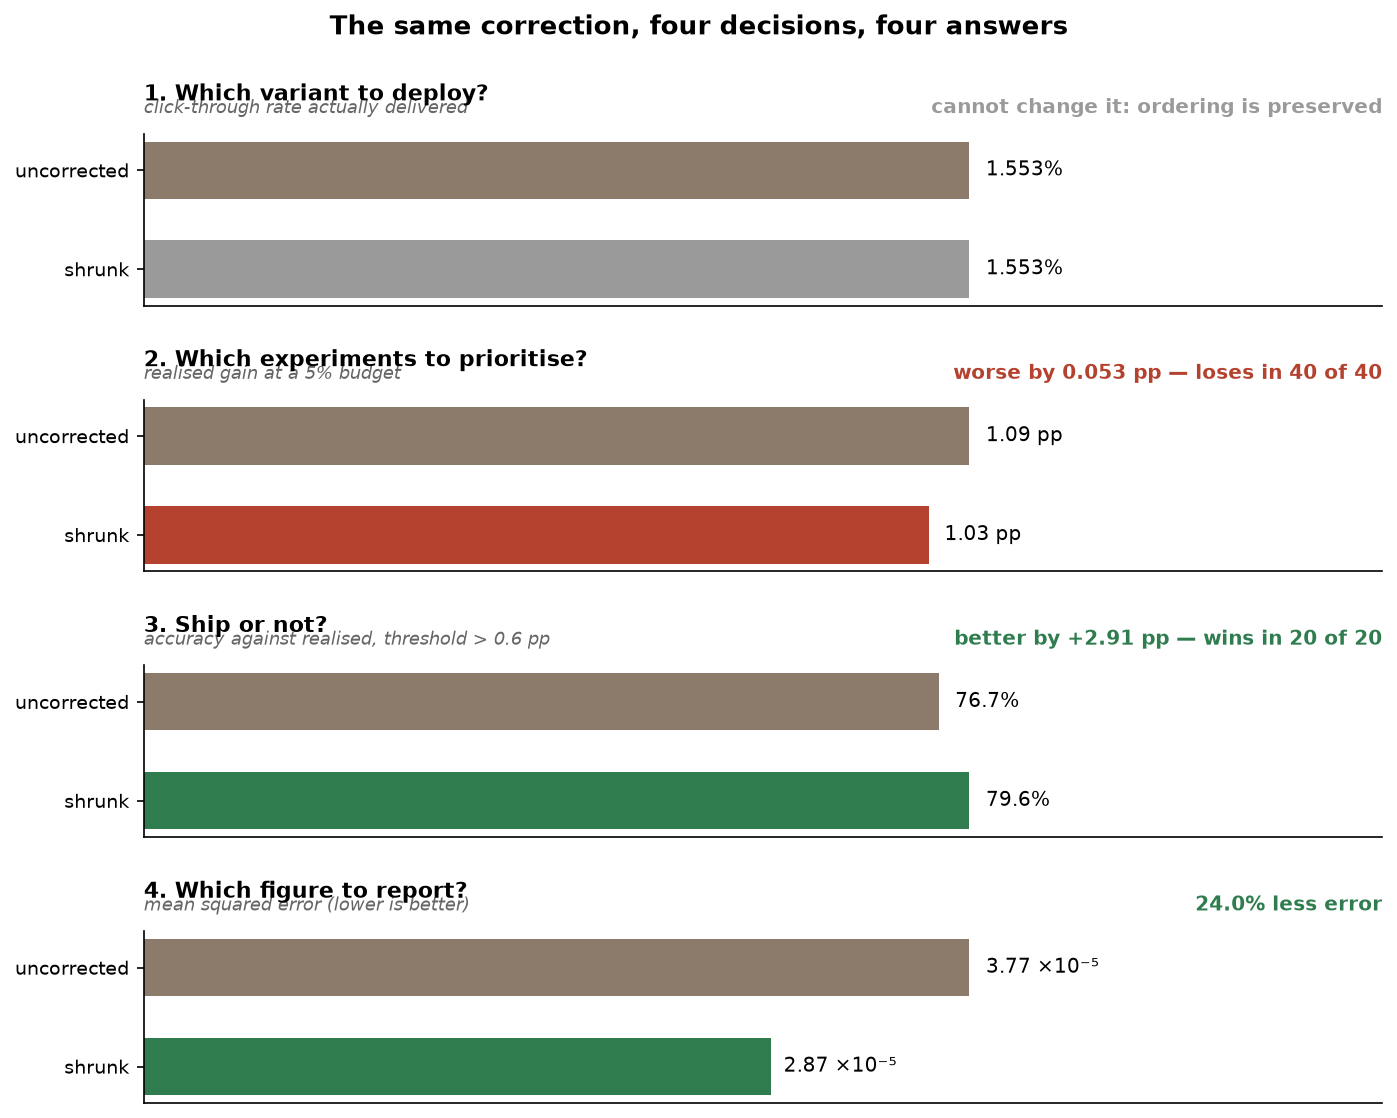
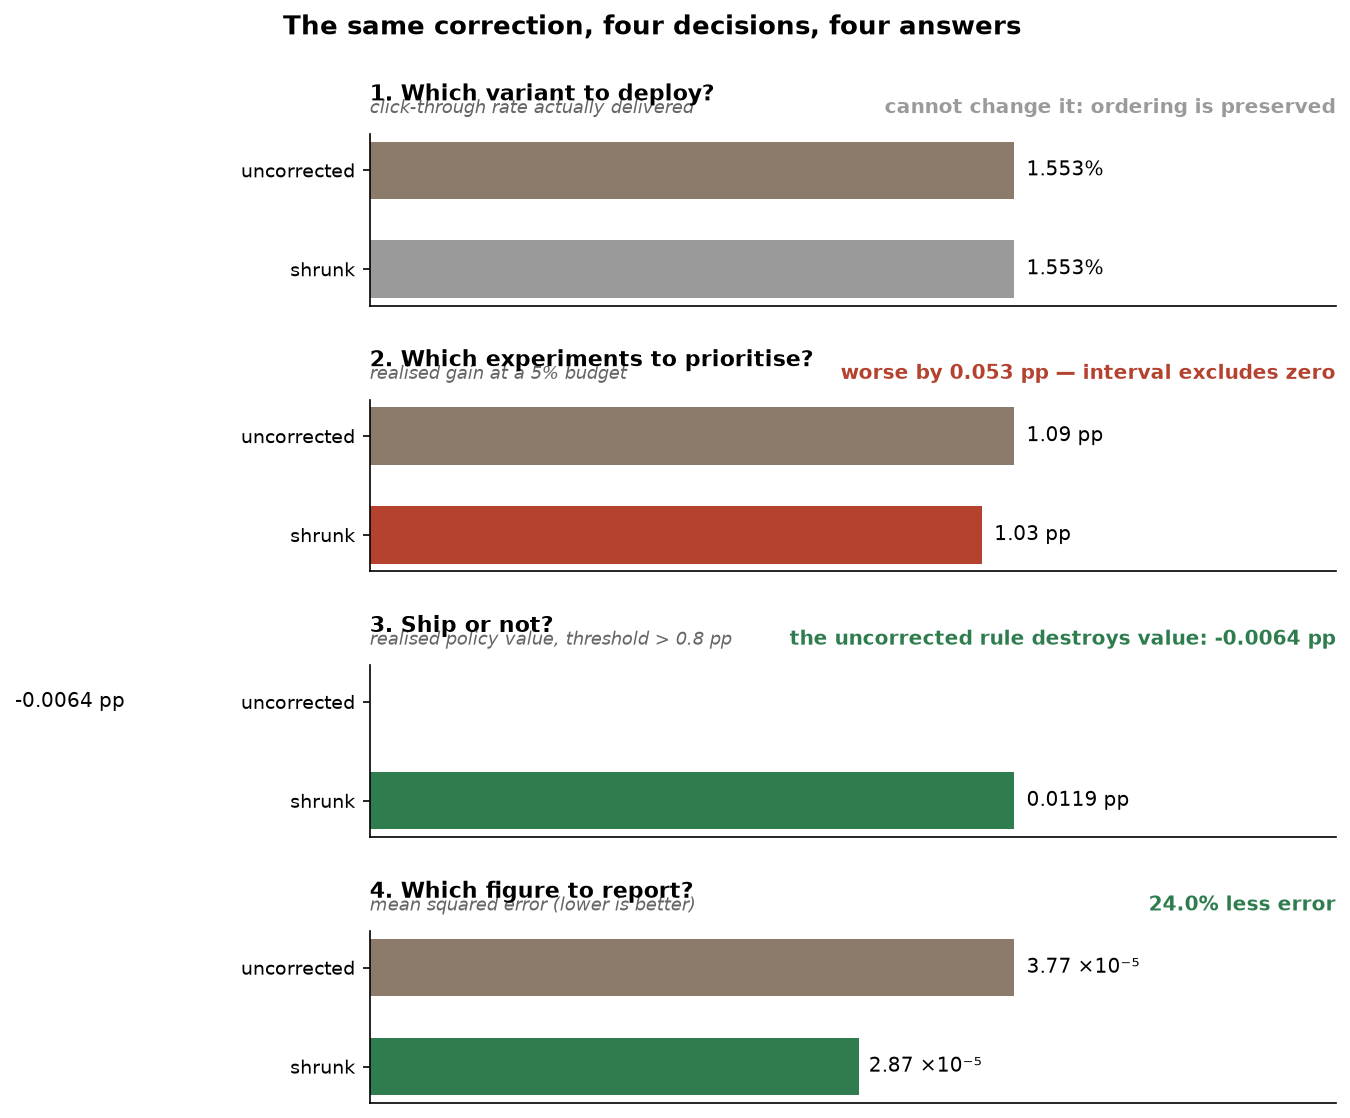
Publish the ship decision by realised value, and verify 39 claims
The README now reports decision 3 as the value the policy delivers
rather than how often it agrees with a second noisy measurement. At a
0.8 pp bar the uncorrected rule is NEGATIVE (-0.0064 pp) while the
shrunk rule is +0.0119 pp: it is not merely less accurate, it is worse
than shipping nothing. It ships 14.2% when 14.2% genuinely clear the
bar -- the right rate and the wrong individuals.

Inference, with its replicate count stated per artefact:
- Regime, B=2000. Stability against B=1000 holds: the point estimate
  does not move and the endpoints move 0.0014 pp against an interval
  0.064 pp wide.
- Ship, B=1000. The B=2000 run was stopped by the host for system
  memory pressure, not by any failure of its own, and was not
  restarted.

Also reported rather than smoothed over: on the 1,277 experiments the
regime filter retains, Monte Carlo variability from the thinning split
(0.125 pp) exceeds the bootstrap standard error (0.068 pp). Separating
the two is what makes that visible.

verify_reported_results.py goes from 27 to 39 claims, covering the
interval endpoints and ship rates. Bootstrap tolerances are wider than
the deterministic ones on purpose: they must survive a rerun on a new
seed, not pin one run's digits, and the measured B=1000 to B=2000
movement sets that scale. Checked against a deliberately flipped sign:
it exits 1 and names the claim.

Claude-Session: https://claude.ai/code/session_014p8syLj6p6szsZxoFvr4Wu

diff --git a/scripts/verify_reported_results.py b/scripts/verify_reported_results.py
@@ -36,11 +36,11 @@ class Claim:
     """One number the README states, and where it comes from."""
 
     label: str
-    source: str                 # file in reports/results/
-    path: tuple[str, ...]       # keys to walk
+    source: str                      # file in reports/results/
+    path: tuple[str | int, ...]      # keys to walk; ints index into lists
     expected: float
     tolerance: float
-    scale: float = 1.0          # multiply the stored value before comparing
+    scale: float = 1.0               # multiply the stored value before comparing
 
     def read(self) -> float:
         payload: Any = json.loads((RESULTS / self.source).read_text(encoding="utf-8"))
@@ -75,6 +75,21 @@ CLAIMS: list[Claim] = [
           ("confirmatory", "gain", "raw", "0.05"), 1.086, 0.015, scale=100),
     Claim("gain at 5%, shrunk (pp)", "07_result.json",
           ("confirmatory", "gain", "shrunk", "0.05"), 1.033, 0.015, scale=100),
+
+    # Decision 2, with the interval the README now quotes. The bootstrap is a
+    # Monte Carlo approximation, so these tolerances are wider than the
+    # deterministic claims above: they must survive a rerun on a new seed, not
+    # pin one run's digits. Endpoints moved by 0.0014 pp between B=1000 and
+    # B=2000, which is what sets the scale.
+    Claim("D2 difference, point (pp)", "08_regime.json",
+          ("confirmatory", "full_archive", "difference", "point_estimate"),
+          -0.0685, 0.004, scale=100),
+    Claim("D2 difference, lower endpoint (pp)", "08_regime.json",
+          ("confirmatory", "full_archive", "difference", "percentile_interval", 0),
+          -0.092, 0.010, scale=100),
+    Claim("D2 difference, upper endpoint (pp)", "08_regime.json",
+          ("confirmatory", "full_archive", "difference", "percentile_interval", 1),
+          -0.027, 0.010, scale=100),
 
     # Initial checks
     Claim("Cochran Q/dof, exploratory", "03_calibration.json",
@@ -129,6 +144,36 @@ CLAIMS: list[Claim] = [
           ("confirmatory", "mse_relative_change", "bhs"), -28.1, 0.6, scale=100),
     Claim("regime filter retains (%)", "08_regime.json",
           ("confirmatory", "filter", "fraction_of_arms_retained"), 6.9, 0.3, scale=100),
+
+    # Decision 3, by realised policy value. The sign of the uncorrected rule at
+    # the demanding threshold is the claim that matters, so its tolerance is
+    # tight enough that a change of sign fails here.
+    Claim("ship value at 0.8 pp, raw (pp)", "09_ship_decision.json",
+          ("thresholds", "0.008", "value_raw", "point_estimate"),
+          -0.00641, 0.0020, scale=100),
+    Claim("ship value at 0.8 pp, shrunk (pp)", "09_ship_decision.json",
+          ("thresholds", "0.008", "value_shrunk", "point_estimate"),
+          0.01187, 0.0020, scale=100),
+    Claim("ship difference at 0.8 pp (pp)", "09_ship_decision.json",
+          ("thresholds", "0.008", "difference_shrunk_minus_raw", "point_estimate"),
+          0.01828, 0.0025, scale=100),
+    Claim("ship difference at 0.8 pp, lower endpoint (pp)",
+          "09_ship_decision.json",
+          ("thresholds", "0.008", "difference_shrunk_minus_raw",
+           "percentile_interval", 0),
+          0.0148, 0.0040, scale=100),
+    Claim("ship difference at 0.6 pp (pp)", "09_ship_decision.json",
+          ("thresholds", "0.006", "difference_shrunk_minus_raw", "point_estimate"),
+          0.01475, 0.0025, scale=100),
+    Claim("ship difference at 0.4 pp (pp)", "09_ship_decision.json",
+          ("thresholds", "0.004", "difference_shrunk_minus_raw", "point_estimate"),
+          0.00548, 0.0020, scale=100),
+    Claim("ship rate at 0.8 pp, raw (%)", "09_ship_decision.json",
+          ("thresholds", "0.008", "ship_rate_raw"), 14.2, 0.8, scale=100),
+    Claim("ship rate at 0.8 pp, shrunk (%)", "09_ship_decision.json",
+          ("thresholds", "0.008", "ship_rate_shrunk"), 3.1, 0.8, scale=100),
+    Claim("should ship at 0.8 pp (%)", "09_ship_decision.json",
+          ("thresholds", "0.008", "should_ship"), 14.2, 0.8, scale=100),
 ]
 
 

diff --git a/scripts/11_figures.py b/scripts/11_figures.py
@@ -235,20 +235,25 @@ def fig_umbral() -> None:
     a1.errorbar(x, v_con, yerr=barras(v_con, ic_con), fmt="o-", color=GLOBAL,
                 lw=2, ms=6, capsize=3, label="shrunk", zorder=3)
 
-    # El cruce por cero es el hallazgo: senalar el umbral donde ocurre.
+    # El cruce por cero es el hallazgo: senalar el umbral donde ocurre. La
+    # etiqueta va a la IZQUIERDA del punto, porque debajo la recorta el eje.
     for xi, v in zip(x, v_cru):
         if v < 0:
             a1.annotate("destroys\nvalue", (xi, v),
                         textcoords="offset points",
-                        xytext=(0, -26), ha="center", fontsize=8.5,
-                        color=PERJUDICA, weight="bold")
+                        xytext=(-16, -2), ha="right", va="center",
+                        fontsize=8.5, color=PERJUDICA, weight="bold")
             break
 
     a1.set_xlabel("ship threshold (percentage points of improvement)")
     a1.set_ylabel("realised policy value (pp)")
-    a1.set_title("Above a demanding bar the uncorrected rule turns negative")
+    a1.set_title("The uncorrected rule turns negative", fontsize=10.5)
     a1.legend(frameon=False, loc="upper right")
-    a1.set_xlim(min(x) - 0.06, max(x) + 0.06)
+    a1.set_xlim(min(x) - 0.06, max(x) + 0.08)
+    # Holgura inferior para que la etiqueta y la barra de error quepan enteras.
+    bajo = min(ic[0] * 100 for ic in ic_cru)
+    alto = max(ic[1] * 100 for ic in ic_con)
+    a1.set_ylim(bajo - (alto - bajo) * 0.14, alto + (alto - bajo) * 0.10)
 
     ancho = 0.26
     xi = np.arange(len(us))
@@ -261,7 +266,7 @@ def fig_umbral() -> None:
     a2.set_xticks(xi, [f"> {float(k)*100:.1f}" for k in us])
     a2.set_xlabel("ship threshold (pp)")
     a2.set_ylabel("% of experiments shipped")
-    a2.set_title("The uncorrected rule gets the rate right and the individuals wrong")
+    a2.set_title("Right rate, wrong individuals", fontsize=10.5)
     a2.legend(frameon=False, fontsize=8.5)
 
     fig.suptitle("Ranking is invariant to shrinkage; threshold comparison is not",

diff --git a/README.md b/README.md
@@ -125,20 +125,30 @@ What an experimentation lead should take away: **the correction serves to stop o
 
 ![Where it fails](reports/figures/05_where_it_fails.png)
 
-## 3. Whether to ship: here shrinkage does win, and the margin grows
+## 3. Whether to ship: here shrinkage does win, and the uncorrected rule can destroy value
+
+*Stage 2 — devised after the confirmatory sample had been unblinded. It requires independent confirmation.*
 
 * **The reason is an asymmetry the A/B testing literature does not usually separate.** Ranking is invariant to a monotone transformation, so shrinkage cannot change the argmax. **Comparison against an absolute threshold is not invariant**: shrinkage changes the value, and therefore changes whether it crosses the line.
 
-* **The improvement grows with the stringency of the threshold**, winning across all 20 partitions from 0.4 points upwards:
+* **What is measured is the value the policy delivers, not how often it agrees with a second measurement.** For a threshold *u*, the policy ships arm *i* when its estimate clears the bar, and the value realised is what the independent evaluation partition says it delivered against that bar:
 
-| Threshold | Accuracy, uncorrected | Accuracy, shrunk | Improvement | Wins in |
+  *V*(π) = (1/N) Σ *a*ᵢ (δ_eval,ᵢ − *u*),  *a*ᵢ = 1(δ̂_est,ᵢ > *u*)
+
+  Accuracy against `realised > u` was the earlier measure and is biased: the indicator of a noisy variable does not estimate the indicator of the truth without bias. It is retained in the results files as a secondary quantity and labelled as such.
+
+| Threshold | Value, uncorrected | Value, shrunk | Difference | 95% cluster-bootstrap percentile |
 |---|---|---|---|---|
-| > 0.2 pp | 62.60% | 62.61% | +0.01 pp | 45% |
-| > 0.4 pp | 68.69% | 70.42% | **+1.73 pp** | **100%** |
-| > 0.6 pp | 76.72% | 79.62% | **+2.91 pp** | **100%** |
-| > 0.8 pp | 83.83% | 86.68% | **+2.85 pp** | **100%** |
+| > 0.2 pp | +0.1143 pp | +0.1142 pp | −0.0000 pp | [−0.0005, +0.0003] |
+| > 0.4 pp | +0.0424 pp | +0.0479 pp | **+0.0055 pp** | [+0.0043, +0.0083] |
+| > 0.6 pp | +0.0083 pp | +0.0231 pp | **+0.0147 pp** | [+0.0126, +0.0177] |
+| > 0.8 pp | **−0.0064 pp** | +0.0119 pp | **+0.0183 pp** | [+0.0148, +0.0202] |
 
-* **At a stringent threshold the uncorrected rule ships 14.2% and the truth is 14.2%:** it gets the rate right and the individuals wrong. The shrunk rule ships 3.2% and is more often correct, because most experiments genuinely do not clear a high bar and shrinkage says so.
+* **At the most demanding bar the uncorrected rule delivers negative value.** It is not merely less accurate: the arms it ships do not clear the threshold often enough to pay for those that do, so applying it is worse than shipping nothing. The corrected rule stays positive at every threshold.
+
+* **The mechanism is in the rates.** At a 0.8 pp bar the uncorrected rule ships 14.2% of experiments and 14.2% genuinely clear it: **it gets the rate right and the individuals wrong.** The shrunk rule ships 3.1%, forgoing some genuine winners in exchange for not paying for false ones.
+
+* **At a lenient threshold the two are indistinguishable**, and the interval says so. The gain is not a property of the method alone but of the method and the bar together.
 
 * **This is the decision a team makes most frequently**, and it is where the correction pays.
 
@@ -162,7 +172,7 @@ What an experimentation lead should take away: **the correction serves to stop o
 
 For an experimentation team evaluating whether to adopt the correction:
 
-* **The winning variant overstates by 15.4% in relative terms, and this is correctable.** **Adopt the correction for what is reported to the business and for deciding whether an improvement merits deployment**, since it reduces error by 24% and improves ship-decision accuracy by up to 2.9 points, winning across every partition evaluated.
+* **The winning variant overstates by 15.4% in relative terms, and this is correctable.** **Adopt the correction for what is reported to the business and for deciding whether an improvement merits deployment**, since it reduces estimation error by 24% and, at a demanding ship threshold, turns a policy of negative realised value into a positive one.
 
 * **The variants of an A/B test typically receive balanced traffic by design.** **Do not therefore justify the correction as an improvement to which variant is chosen**: measure the ratio of impressions between the most and least exposed variant, and if it is close to 1 there is an algebraic reason why it will not reorder.
 
@@ -185,6 +195,10 @@ For an experimentation team evaluating whether to adopt the correction:
 * **The normal prior is misspecified by construction.** The winner's advantage is that of an already-selected variant, so its distribution is shifted (skewness +1.19) where the normal assumes zero. This is the reason BHS was implemented, and also the reason posterior-mean ranking does not attain its theoretical optimum.
 
 * **The evaluation measures prediction on a held-out partition, not performance following an actual deployment.** The procedure is exact for the binomial, but what it tests is the ability to anticipate the held-out half of the same experiment. Deployment to a full user base introduces effects — saturation, seasonality, interference between users — that these data cannot reveal.
+
+* **The cluster bootstrap treats experiments as the resampling units and does not model dependence across them.** Shared time periods and editorial context are not accounted for: the archive is a time series, and nothing here is a block bootstrap. Intervals are reported as 95% cluster-bootstrap percentile intervals, with the basic (reverse-percentile) interval alongside; where the two separate materially that is stated, and it signals asymmetry or displacement of the bootstrap distribution rather than demonstrated bias.
+
+* **Monte Carlo variability from the thinning split is reported separately from sampling uncertainty, and in one place it dominates.** On the 1,277 experiments the regime filter retains, the spread across thinning seeds (0.125 pp) exceeds the bootstrap standard error (0.068 pp): at that sample size the choice of split moves the answer more than the sample does.
 
 * **A single publisher, a single metric, 2013–2015, and aggregated data without person-level detail.** There are no segments or user characteristics. **The procedure and its thresholds transfer; the specific figures do not.** No number in this document should be used as an expectation for another platform.
 
